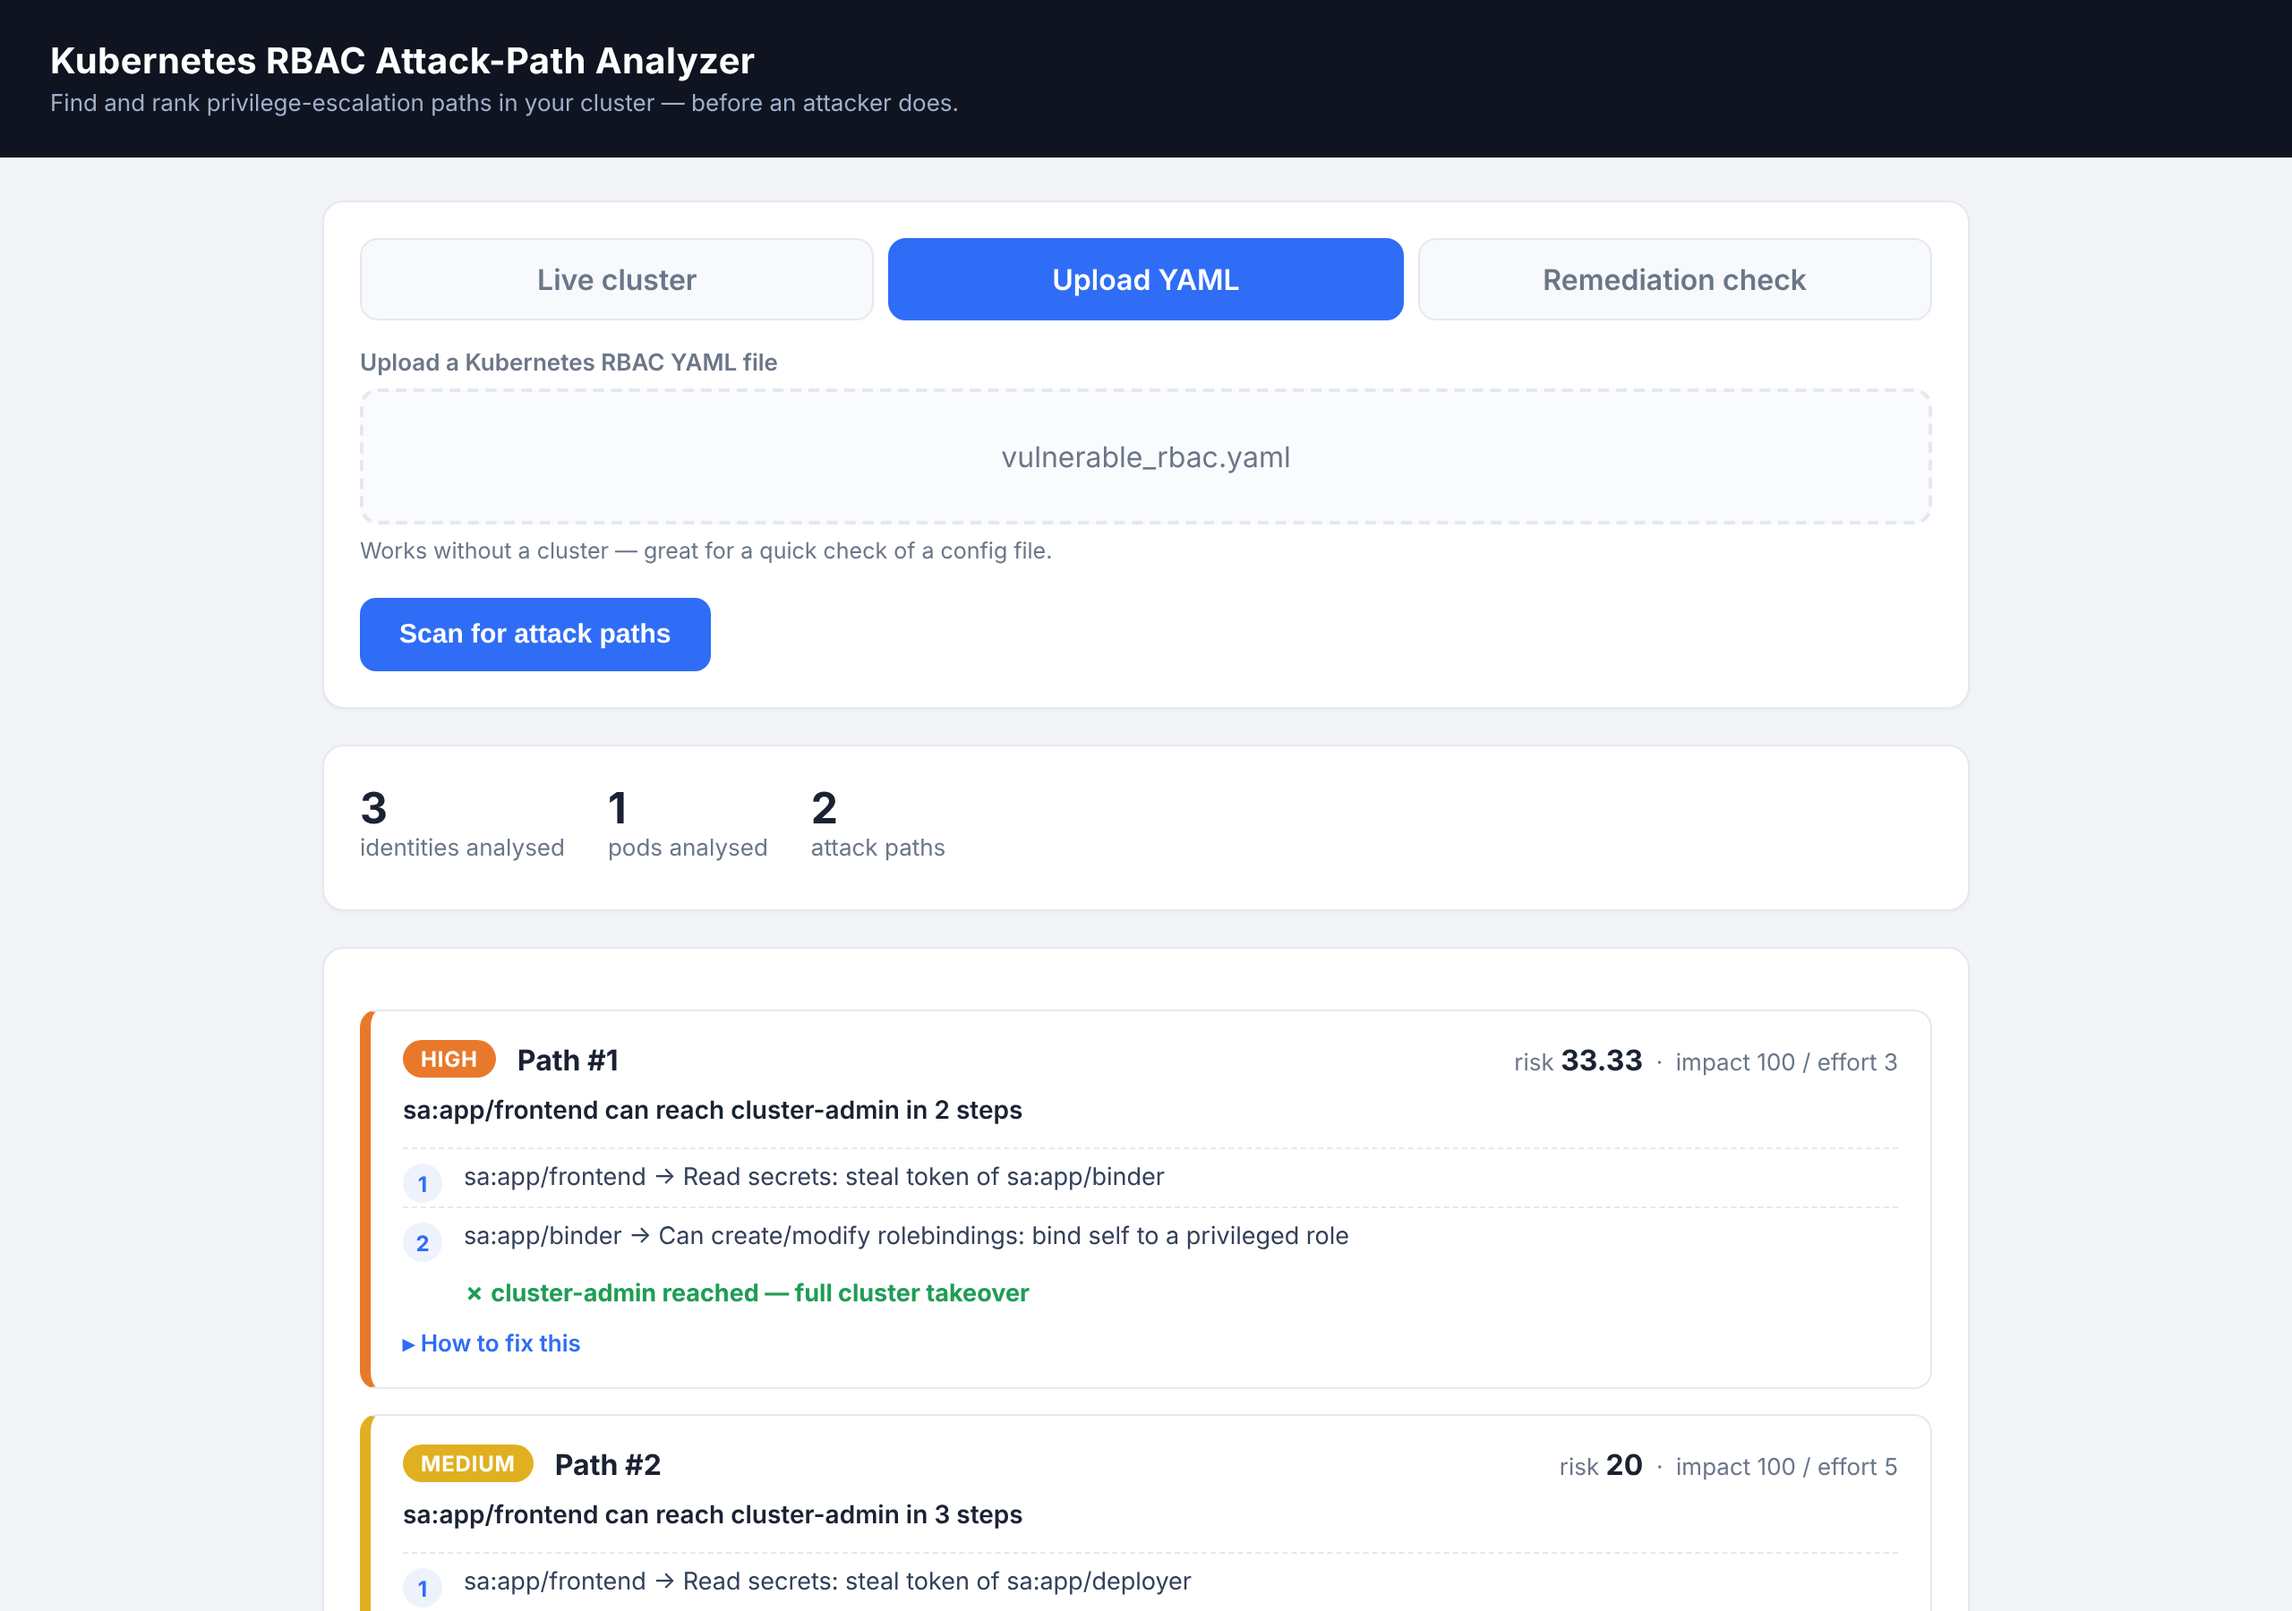
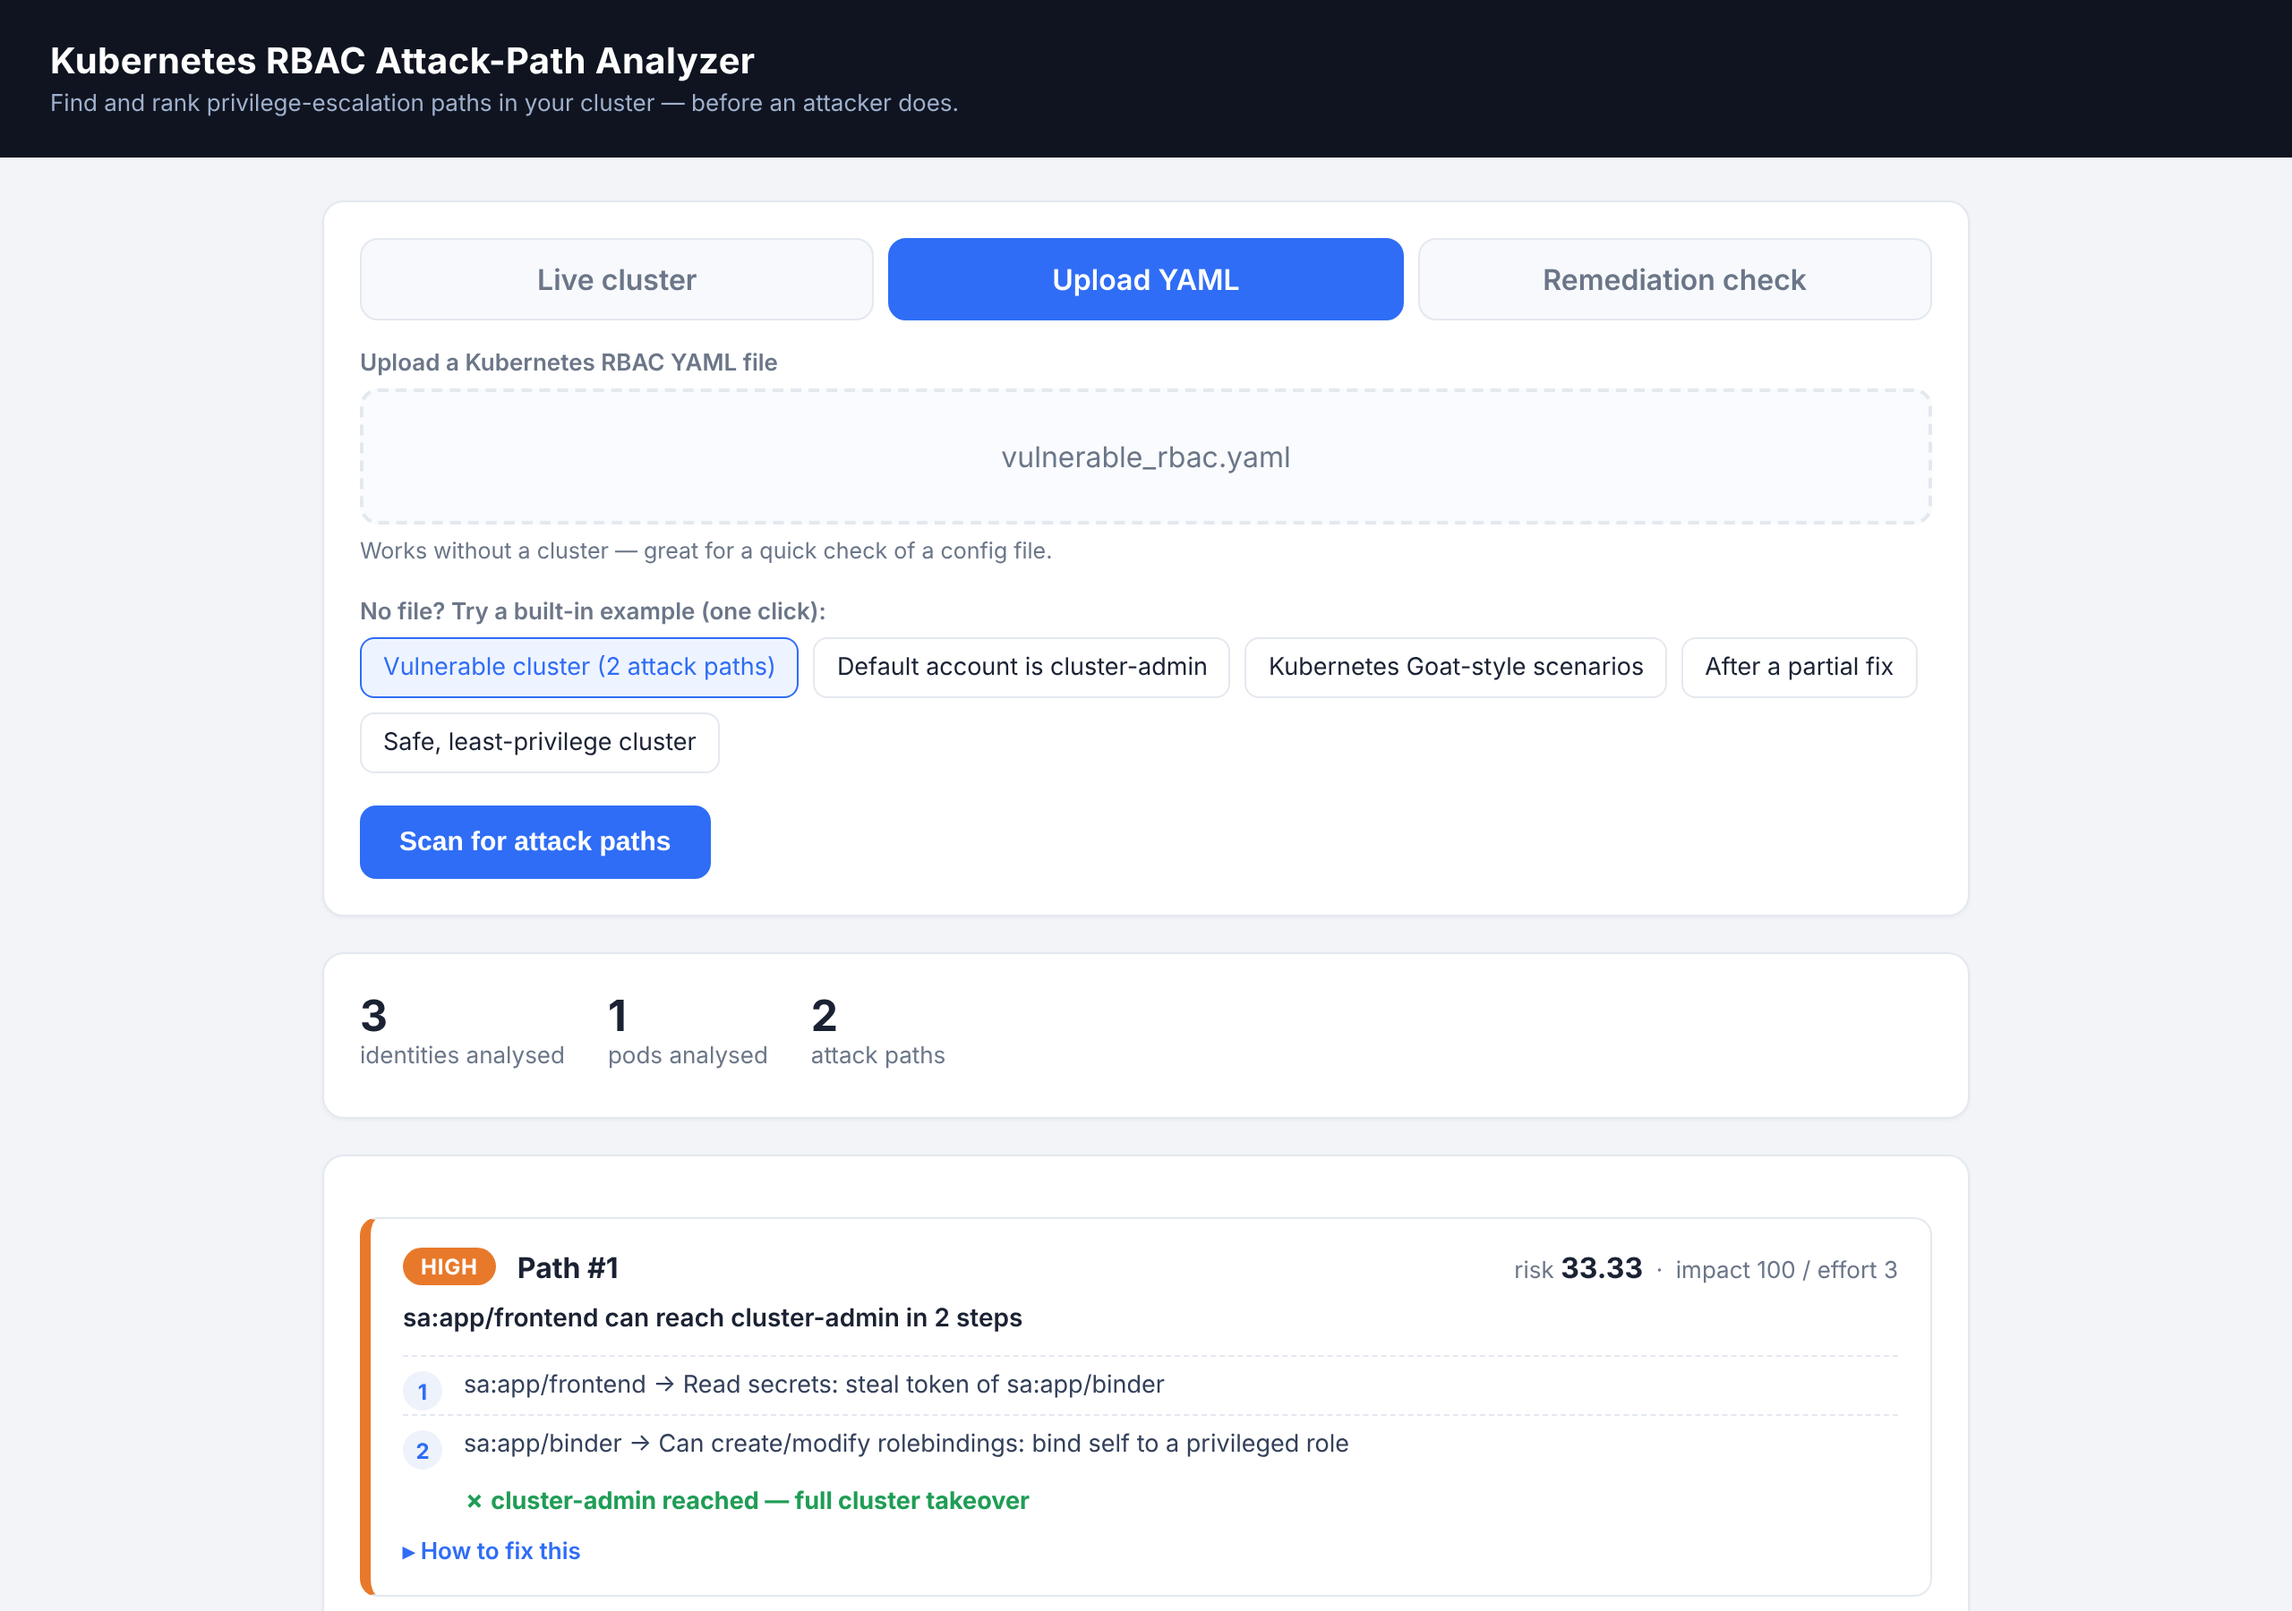
Add files via upload

diff --git a/rbacgraph/templates/index.html b/rbacgraph/templates/index.html
@@ -72,6 +72,12 @@
   .err{padding:14px 16px;color:#8a1f27;background:#fdecee;border:1px solid #f5c6cb;
     border-radius:9px;font-size:14px}
   .hint{font-size:12.5px;color:var(--muted);margin-top:8px}
+  .examples{margin-top:18px}
+  #exampleBtns{display:flex;flex-wrap:wrap;gap:8px;margin-top:6px}
+  .exbtn{border:1px solid var(--line);background:#fff;border-radius:8px;padding:8px 12px;
+    font:inherit;font-size:13.5px;cursor:pointer;color:inherit}
+  .exbtn:hover{border-color:var(--brand);color:var(--brand);background:#eef4ff}
+  .exbtn:disabled{opacity:.5;cursor:default}
   .spinner{width:18px;height:18px;border:3px solid #cfe0ff;border-top-color:var(--brand);
     border-radius:50%;display:inline-block;animation:spin .8s linear infinite;vertical-align:-3px}
   @keyframes spin{to{transform:rotate(360deg)}}
@@ -157,6 +163,10 @@
         <input type="file" id="file" accept=".yaml,.yml" class="hidden" multiple>
       </div>
       <div class="hint">Works without a cluster — great for a quick check of a config file.</div>
+      <div class="examples">
+        <label>No file? Try a built-in example (one click):</label>
+        <div id="exampleBtns"></div>
+      </div>
     </div>
 
     <!-- REMEDIATION -->
@@ -230,6 +240,9 @@ fetch('/api/contexts').then(r=>r.json()).then(d=>{
     const opt = `<option value="">No clusters found${why}</option>`;
     sel.innerHTML = opt;
     if(rsel) rsel.innerHTML = opt;
+    // No cluster available (e.g. a first-time visitor): open the YAML tab
+    // with its built-in examples instead of an empty cluster list.
+    if(mode==='live') switchTab('file');
     return;
   }
   sel.innerHTML = d.contexts.map(c =>
@@ -279,6 +292,30 @@ async function scan(){
     else { render(data); }
   }catch(e){ showError('Could not reach the analyzer: '+e.message); }
   setBusy(false);
+}
+
+// Built-in examples: scan a bundled sample file with one click.
+fetch('/api/samples').then(r=>r.json()).then(list=>{
+  document.getElementById('exampleBtns').innerHTML = list.map(s =>
+    `<button class="exbtn" onclick="scanSample('${s.name}', this)">${s.label}</button>`
+  ).join('');
+});
+
+async function scanSample(name, btn){
+  const btns = document.querySelectorAll('.exbtn');
+  btns.forEach(b=>b.disabled=true);
+  setBusy(true);
+  document.getElementById('dropText').textContent = name;
+  document.getElementById('results').innerHTML = '';
+  try{
+    const res = await fetch('/api/scan/sample',{method:'POST',headers:{'Content-Type':'application/json'},
+      body:JSON.stringify({name})});
+    const data = await res.json();
+    if(!res.ok){ showError(data.error || 'Scan failed.'); }
+    else { render(data); document.getElementById('results').scrollIntoView({behavior:'smooth'}); }
+  }catch(e){ showError('Could not reach the analyzer: '+e.message); }
+  setBusy(false);
+  btns.forEach(b=>b.disabled=false);
 }
 
 function showError(msg){

diff --git a/rbacgraph/web.py b/rbacgraph/web.py
@@ -72,6 +72,35 @@ def scan_upload():
         return jsonify({"error": f"Could not analyse the file: {exc}"}), 400
 
 
+# Built-in example manifests, so visitors can try the tool without a file of
+# their own. Only names in this list can be scanned (no arbitrary paths).
+SAMPLES_DIR = os.path.join(os.path.dirname(os.path.dirname(os.path.abspath(__file__))), "samples")
+SAMPLES = [
+    ("vulnerable_rbac.yaml", "Vulnerable cluster (2 attack paths)"),
+    ("default_sa_admin.yaml", "Default account is cluster-admin"),
+    ("goat_rbac.yaml", "Kubernetes Goat-style scenarios"),
+    ("fix_partial_rbac.yaml", "After a partial fix"),
+    ("benign_rbac.yaml", "Safe, least-privilege cluster"),
+]
+
+
+@app.route("/api/samples")
+def samples():
+    return jsonify([{"name": n, "label": l} for n, l in SAMPLES])
+
+
+@app.route("/api/scan/sample", methods=["POST"])
+def scan_sample():
+    data = request.get_json(force=True, silent=True) or {}
+    name = data.get("name")
+    if name not in dict(SAMPLES):
+        return jsonify({"error": "Unknown example."}), 400
+    try:
+        return jsonify(service.scan_yaml([os.path.join(SAMPLES_DIR, name)]))
+    except Exception as exc:
+        return jsonify({"error": f"Could not analyse the example: {exc}"}), 400
+
+
 @app.route("/api/compare", methods=["POST"])
 def compare():
     data = request.get_json(force=True, silent=True) or {}

diff --git a/tests/test_web_service.py b/tests/test_web_service.py
@@ -38,6 +38,17 @@ class TestWebEndpoints(unittest.TestCase):
                         content_type="multipart/form-data")
         self.assertEqual(r.status_code, 400)
 
+    def test_builtin_example_scan(self):
+        names = [s["name"] for s in self.c.get("/api/samples").get_json()]
+        self.assertIn("vulnerable_rbac.yaml", names)
+        r = self.c.post("/api/scan/sample", json={"name": "vulnerable_rbac.yaml"})
+        self.assertEqual(r.status_code, 200)
+        self.assertEqual(len(r.get_json()["paths"]), 2)
+
+    def test_builtin_example_rejects_unknown_name(self):
+        r = self.c.post("/api/scan/sample", json={"name": "../requirements.txt"})
+        self.assertEqual(r.status_code, 400)
+
     def test_compare_endpoint(self):
         before = service.scan_yaml([sample("vulnerable_rbac.yaml")])["paths"]
         after = service.scan_yaml([sample("fix_full_rbac.yaml")])["paths"]
